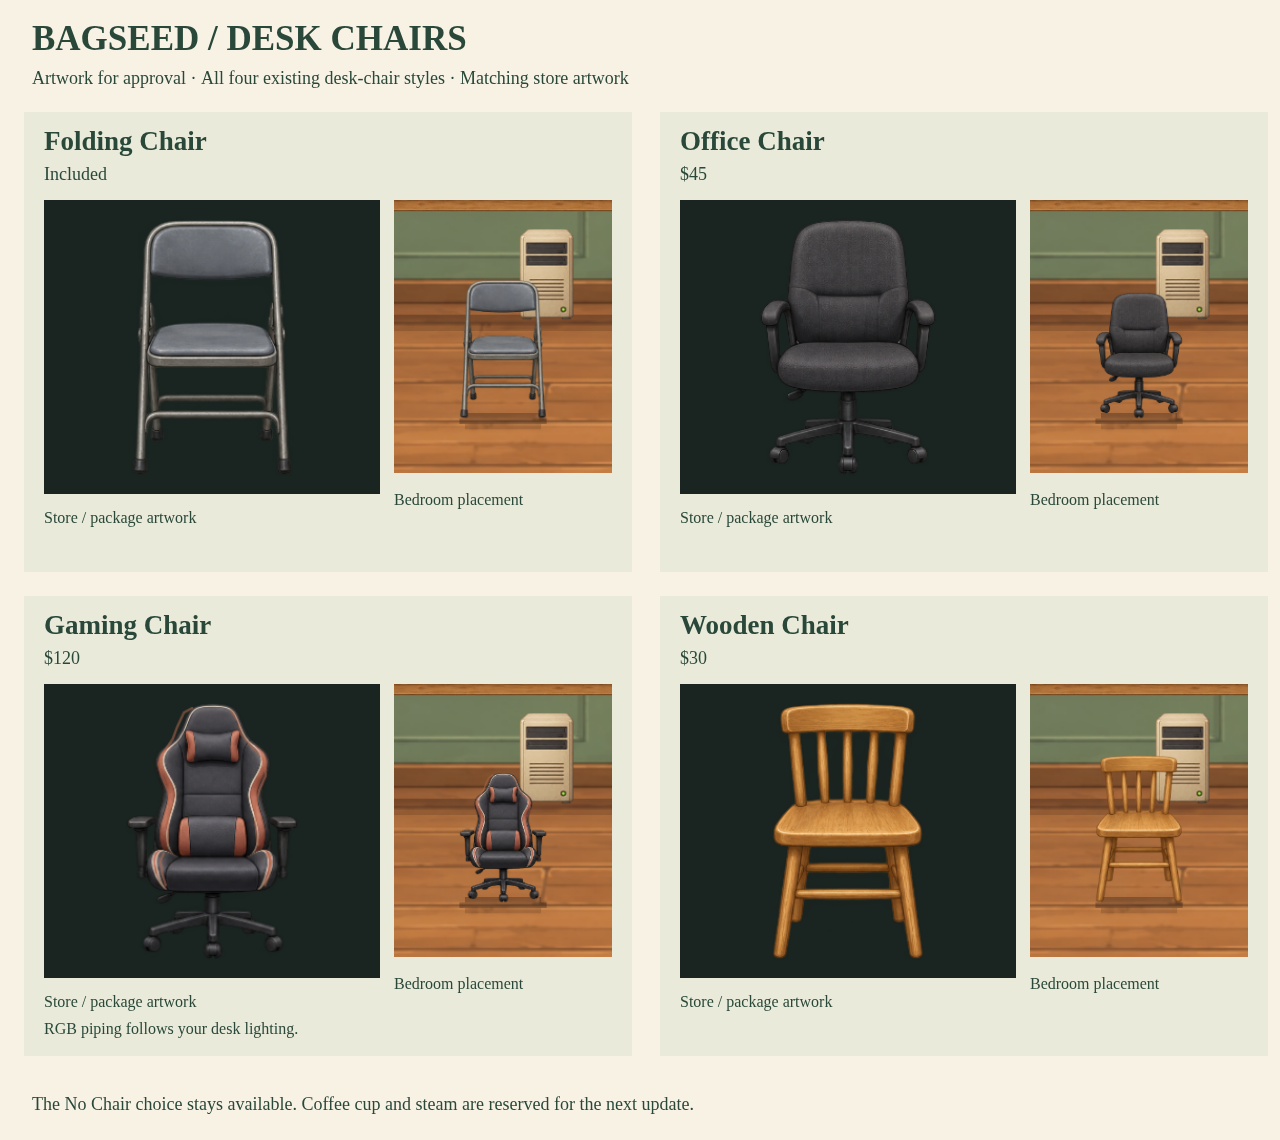
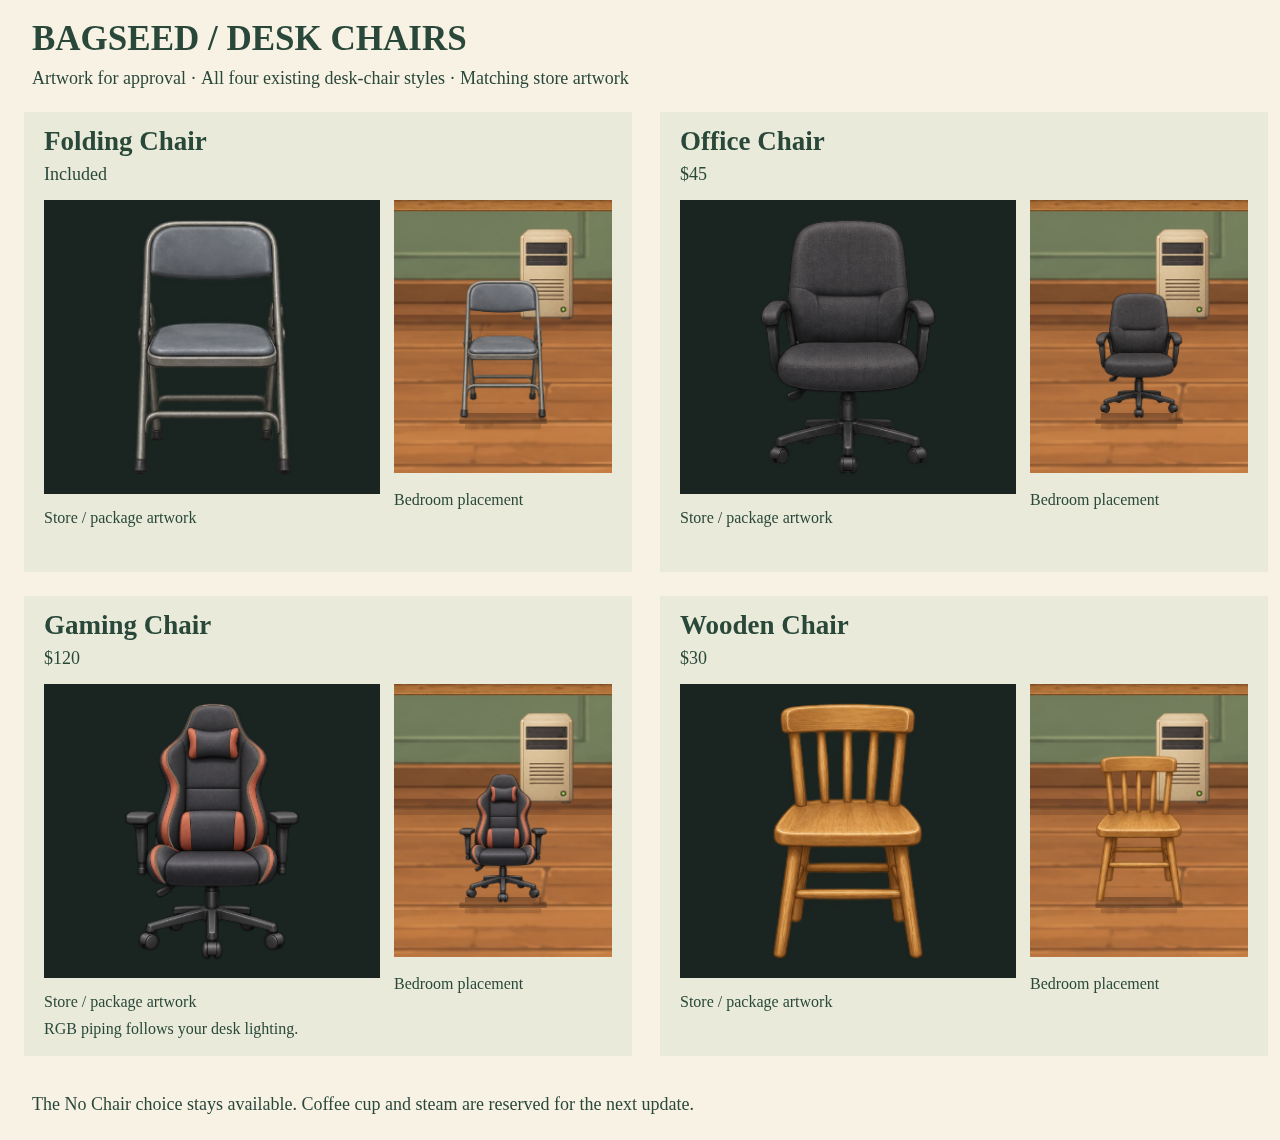
Rerender gaming chair and align RGB LEDs with upholstery

Changed region(s): [[0.0938, 0.614, 0.25, 0.8289], [0.3438, 0.6754, 0.4375, 0.7982]]

diff --git a/graphics/chairs/sources/renderer.js b/graphics/chairs/sources/renderer.js
@@ -1,16 +1,36 @@
 /* Bedroom desk chairs and both finishes of the placeable Office Chair. */
 (()=>{
   'use strict';
-  const DATA=__BAGSEED_CHAIR_DATA__,atlas=new Image();let loaded=false;
+  const DATA=__BAGSEED_CHAIR_DATA__,atlas=new Image(),gamingImage=new Image();let loaded=false,gamingLayers;
   const oldChair=RoomArt.drawChair,oldStyle=drawStyleIcon,oldOffice=DECOR.officechair.d,oldDecorIcon=drawDecorIcon,oldAssetDecor=Asset115.decor;
+  function registerGaming(){
+    const a=DATA.assets.gaming,k=Math.min(1,512/a.rect[3]),w=Math.ceil(a.rect[2]*k),h=Math.ceil(a.rect[3]*k);
+    const canvas=()=>Object.assign(document.createElement('canvas'),{width:w,height:h});
+    const base=canvas(),mask=canvas(),tint=canvas(),g=base.getContext('2d');g.drawImage(gamingImage,...a.rect,0,0,w,h);
+    const pixels=g.getImageData(0,0,w,h),light=mask.getContext('2d').createImageData(w,h);let maskPixels=0,outsideChairPixels=0;
+    for(let i=0;i<pixels.data.length;i+=4){
+      const p=pixels.data,cyan=Math.min(p[i+1],p[i+2])-p[i];
+      if(p[i+3]&&cyan>DATA.gaming.cyanThreshold&&p[i+1]>65&&p[i+2]>75){
+        const alpha=Math.round(p[i+3]*Math.min(1,(cyan-DATA.gaming.cyanThreshold)/55));
+        if(alpha>p[i+3])outsideChairPixels++;
+        light.data[i]=light.data[i+1]=light.data[i+2]=255;light.data[i+3]=alpha;
+        const shade=.65+.35*Math.max(p[i+1],p[i+2])/255;p[i]=147*shade;p[i+1]=113*shade;p[i+2]=85*shade;
+        if(alpha)maskPixels++;
+      }
+    }
+    if(maskPixels<40||outsideChairPixels)throw Error('Gaming chair LED material was not registered inside the artwork');
+    g.putImageData(pixels,0,0);mask.getContext('2d').putImageData(light,0,0);
+    return {base,mask,tint,registration:Object.freeze({method:'source-pixel-mask',maskPixels,outsideChairPixels,width:w,height:h})};
+  }
   function draw(c,id,x,y,w,h,t=0){
     const a=DATA.assets[id],scale=Math.min(w/a.rect[2],h/a.rect[3]);
     const dw=a.rect[2]*scale,dh=a.rect[3]*scale,dx=x+(w-dw)/2,dy=y+h-dh;
-    c.save();c.imageSmoothingEnabled=true;c.imageSmoothingQuality='high';c.drawImage(atlas,...a.rect,dx,dy,dw,dh);
+    c.save();c.imageSmoothingEnabled=true;c.imageSmoothingQuality='high';
     if(id==='gaming'){
-      const rgb=rgbNow(t),color=rgb?rgb.col:'#b66b51';c.strokeStyle=color;c.globalAlpha=rgb?rgb.a*.85:.55;c.lineJoin='round';c.lineCap='round';c.lineWidth=Math.max(.13,dw*.014);
-      for(const points of a.piping||[]){c.beginPath();points.forEach(([px,py],i)=>i?c.lineTo(dx+px*dw,dy+py*dh):c.moveTo(dx+px*dw,dy+py*dh));c.stroke();}
-    }
+      c.drawImage(gamingLayers.base,dx,dy,dw,dh);
+      const rgb=rgbNow(t);
+      if(rgb){const g=gamingLayers.tint.getContext('2d');g.clearRect(0,0,gamingLayers.tint.width,gamingLayers.tint.height);g.drawImage(gamingLayers.mask,0,0);g.globalCompositeOperation='source-in';g.fillStyle=rgb.col;g.fillRect(0,0,gamingLayers.tint.width,gamingLayers.tint.height);g.globalCompositeOperation='source-over';c.globalAlpha*=Math.min(1,rgb.a);c.drawImage(gamingLayers.tint,dx,dy,dw,dh);}
+    }else c.drawImage(atlas,...a.rect,dx,dy,dw,dh);
     c.restore();
   }
   RoomArt.drawChair=function(c){
@@ -36,6 +56,8 @@
   Asset115.decor=function(cv,id){
     if(id!=='officechair'||!loaded)return oldAssetDecor.call(this,cv,id);card(cv.getContext('2d'),cv,'mesh');this.coverage.add('decor:'+id);return true;
   };
-  const ready=new Promise((resolve,reject)=>{atlas.onload=()=>{loaded=true;if(screen==='game'){hydrate(document);View.snap();}resolve({deskChairs:4,officeFinishes:2});};atlas.onerror=()=>reject(new Error('Chair artwork failed to load'));atlas.src=DATA.image;});
-  window.BagseedChairs=Object.freeze({revision:DATA.revision,ready,get loaded(){return loaded;}});ready.catch(e=>console.error(e));
+  const ready=Promise.all([[atlas,DATA.image],[gamingImage,DATA.gaming.image]].map(([im,src])=>new Promise((resolve,reject)=>{im.onload=resolve;im.onerror=()=>reject(new Error('Chair artwork failed to load'));im.src=src;}))).then(()=>{
+    gamingLayers=registerGaming();loaded=true;if(screen==='game'){hydrate(document);View.snap();}return {deskChairs:4,officeFinishes:2};
+  });
+  window.BagseedChairs=Object.freeze({revision:DATA.revision,ready,get loaded(){return loaded;},get rgbRegistration(){return gamingLayers?.registration;}});ready.catch(e=>console.error(e));
 })();

diff --git a/review/chairs/STATUS.md b/review/chairs/STATUS.md
@@ -2,9 +2,11 @@
 
 Status: awaiting user approval. This batch is saved locally and is not integrated into public/index.html or published. Show actual picture previews before publishing.
 
+Revision chairs-2: the user rejected the gaming-chair LEDs as misaligned and requested a rerender. gaming-chair-rerender.png retains the generated replacement. The old manually traced piping paths were removed. LEDs are selected directly from cyan material pixels in the new image, clipped to its alpha, then recolored using the exact chair crop/transform. approval-gaming-led-alignment.png shows three static colors, and gaming-rgb-animation.gif is regenerated. LEDRegistration in report.json records mask coverage and no pixels outside chair alpha; liveMotion verifies animation and still reduced motion in the actual game loop. Five other source crops and the original atlas remain unchanged; the Office Chair finish board is byte-identical to the first proposal.
+
 Scope: all four existing desk-chair styles (Folding included, Office $45, Gaming $120, Wooden $30), plus both finishes for the separate placeable Office Chair ($45 Black Mesh; $8 Teal finish unlock). No Chair remains available. Other seating, house fixtures and dining chairs are outside this workstation batch.
 
-Source atlas: graphics/chairs/assets/chairs-atlas.png. Six retained painted sprites, source dimensions/checksum, technical crops and normalized gaming RGB piping paths are in sources/manifest.json. Rendering preserves aspect ratios in a fixed desk-chair frame (x182/y88, 16×30, feet at y118) and the existing 12×18 placeable-chair bounds. All prices, finish ownership, collision footprints and seat flags are unchanged.
+Sources: graphics/chairs/assets/chairs-atlas.png and gaming-chair-rerender.png. Original dimensions/checksums, technical crops and the LED selection threshold are in sources/manifest.json. Rendering preserves aspect ratios in a fixed desk-chair frame (x182/y88, 16×30, feet at y118) and the existing 12×18 placeable-chair bounds. All prices, finish ownership, collision footprints and seat flags are unchanged.
 
 Pictures: approval-desk-chairs.png, approval-office-finishes.png and gaming-rgb-animation.gif. Store captures are included for desktop/phone. Reproduce with node tools/preview-chairs.cjs; it opens public/index.html and injects only the proposal into the disposable browser. Raw animation frames are ignored under artifacts/chair-preview/frames; GIF uses 4fps with matching 0.25-second simulation steps.
 

diff --git a/graphics/chairs/README.md b/graphics/chairs/README.md
@@ -2,7 +2,9 @@
 
 Four existing desk-chair styles: Folding Chair (included), Office Chair ($45), Gaming Chair ($120), Wooden Chair ($30), plus the preserved No Chair choice. The separate placeable Office Chair ($45) retains its Black Mesh finish and $8 Teal finish unlock. This batch contains six drawings and adds no new catalog options.
 
-The original generated transparent atlas, checksum and crop coordinates are retained under assets and sources. The renderer fits all desk chairs to the same 16×30 frame, feet at y118, while preserving their aspect ratios. The placeable chair retains its 12×18 bounds, footprint, seat flag, variants and flip/rotation behavior. Store and delivery previews share the same artwork. The gaming chair's RGB piping follows rgbNow and becomes static with reduced motion.
+The original generated transparent atlas, checksum and crop coordinates are retained under assets and sources. The five other chairs retain that source. The gaming chair has a separate rerender with LED strips painted into its upholstery. A color mask derived from those source pixels is recolored in the same crop and transform as the chair; there are no manually traced overlay paths. Cache height is capped at 512 pixels. RGB follows rgbNow and becomes static with reduced motion.
+
+The renderer fits all desk chairs to the same 16×30 frame, feet at y118, while preserving their aspect ratios. The placeable chair retains its 12×18 bounds, footprint, seat flag, variants and flip/rotation behavior. Store and delivery previews share the same artwork.
 
 Use node tools/preview-chairs.cjs to load public/index.html and inject only the proposal in the preview browser. Production HTML and build configuration remain unchanged until the user approves the pictures. Save this work locally and show pictures before pushing.
 
